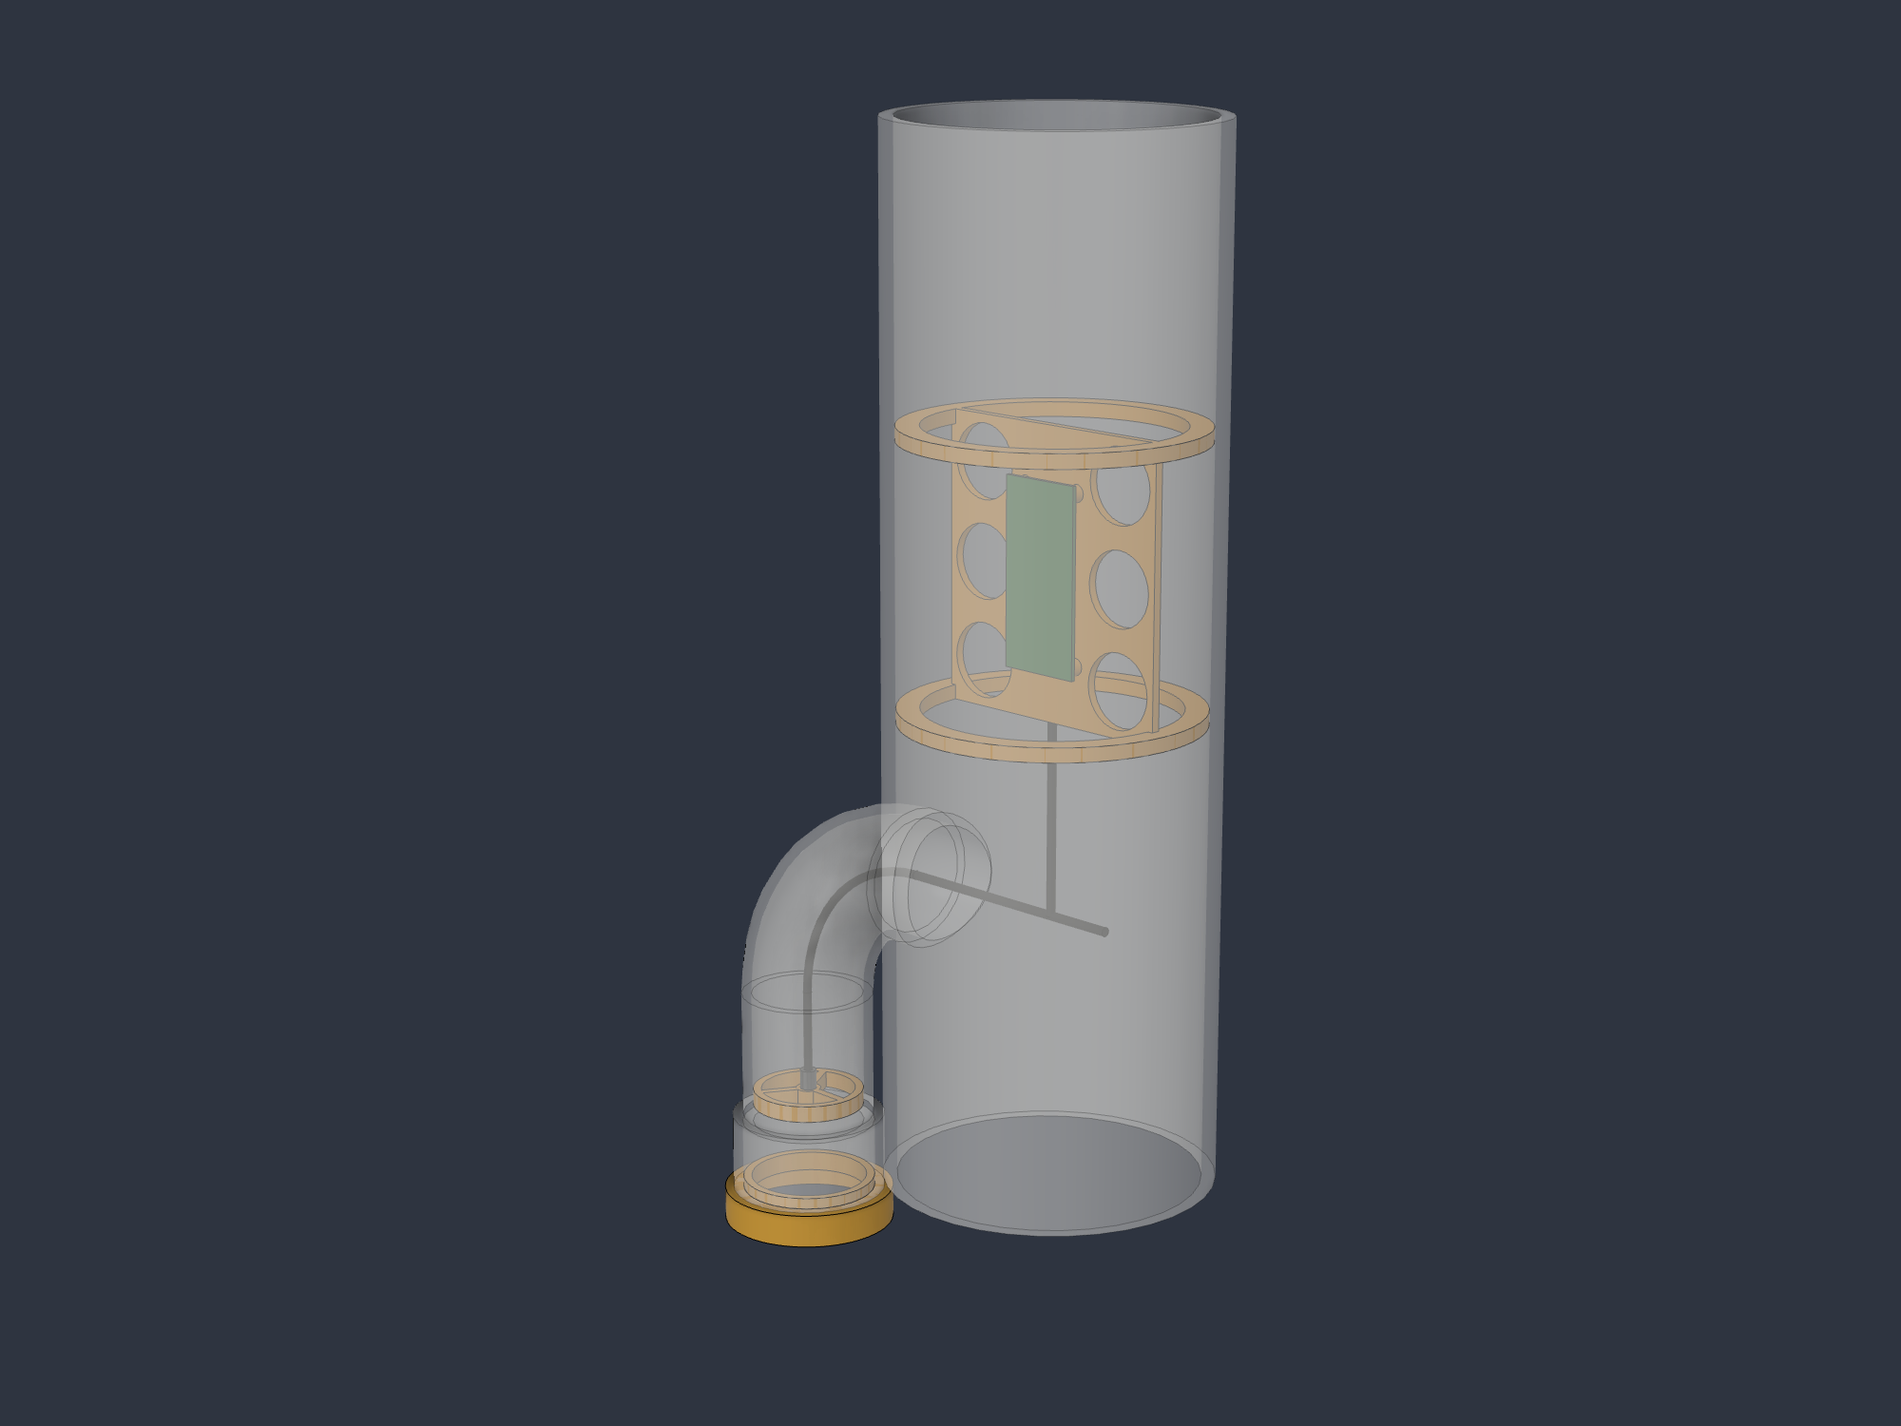
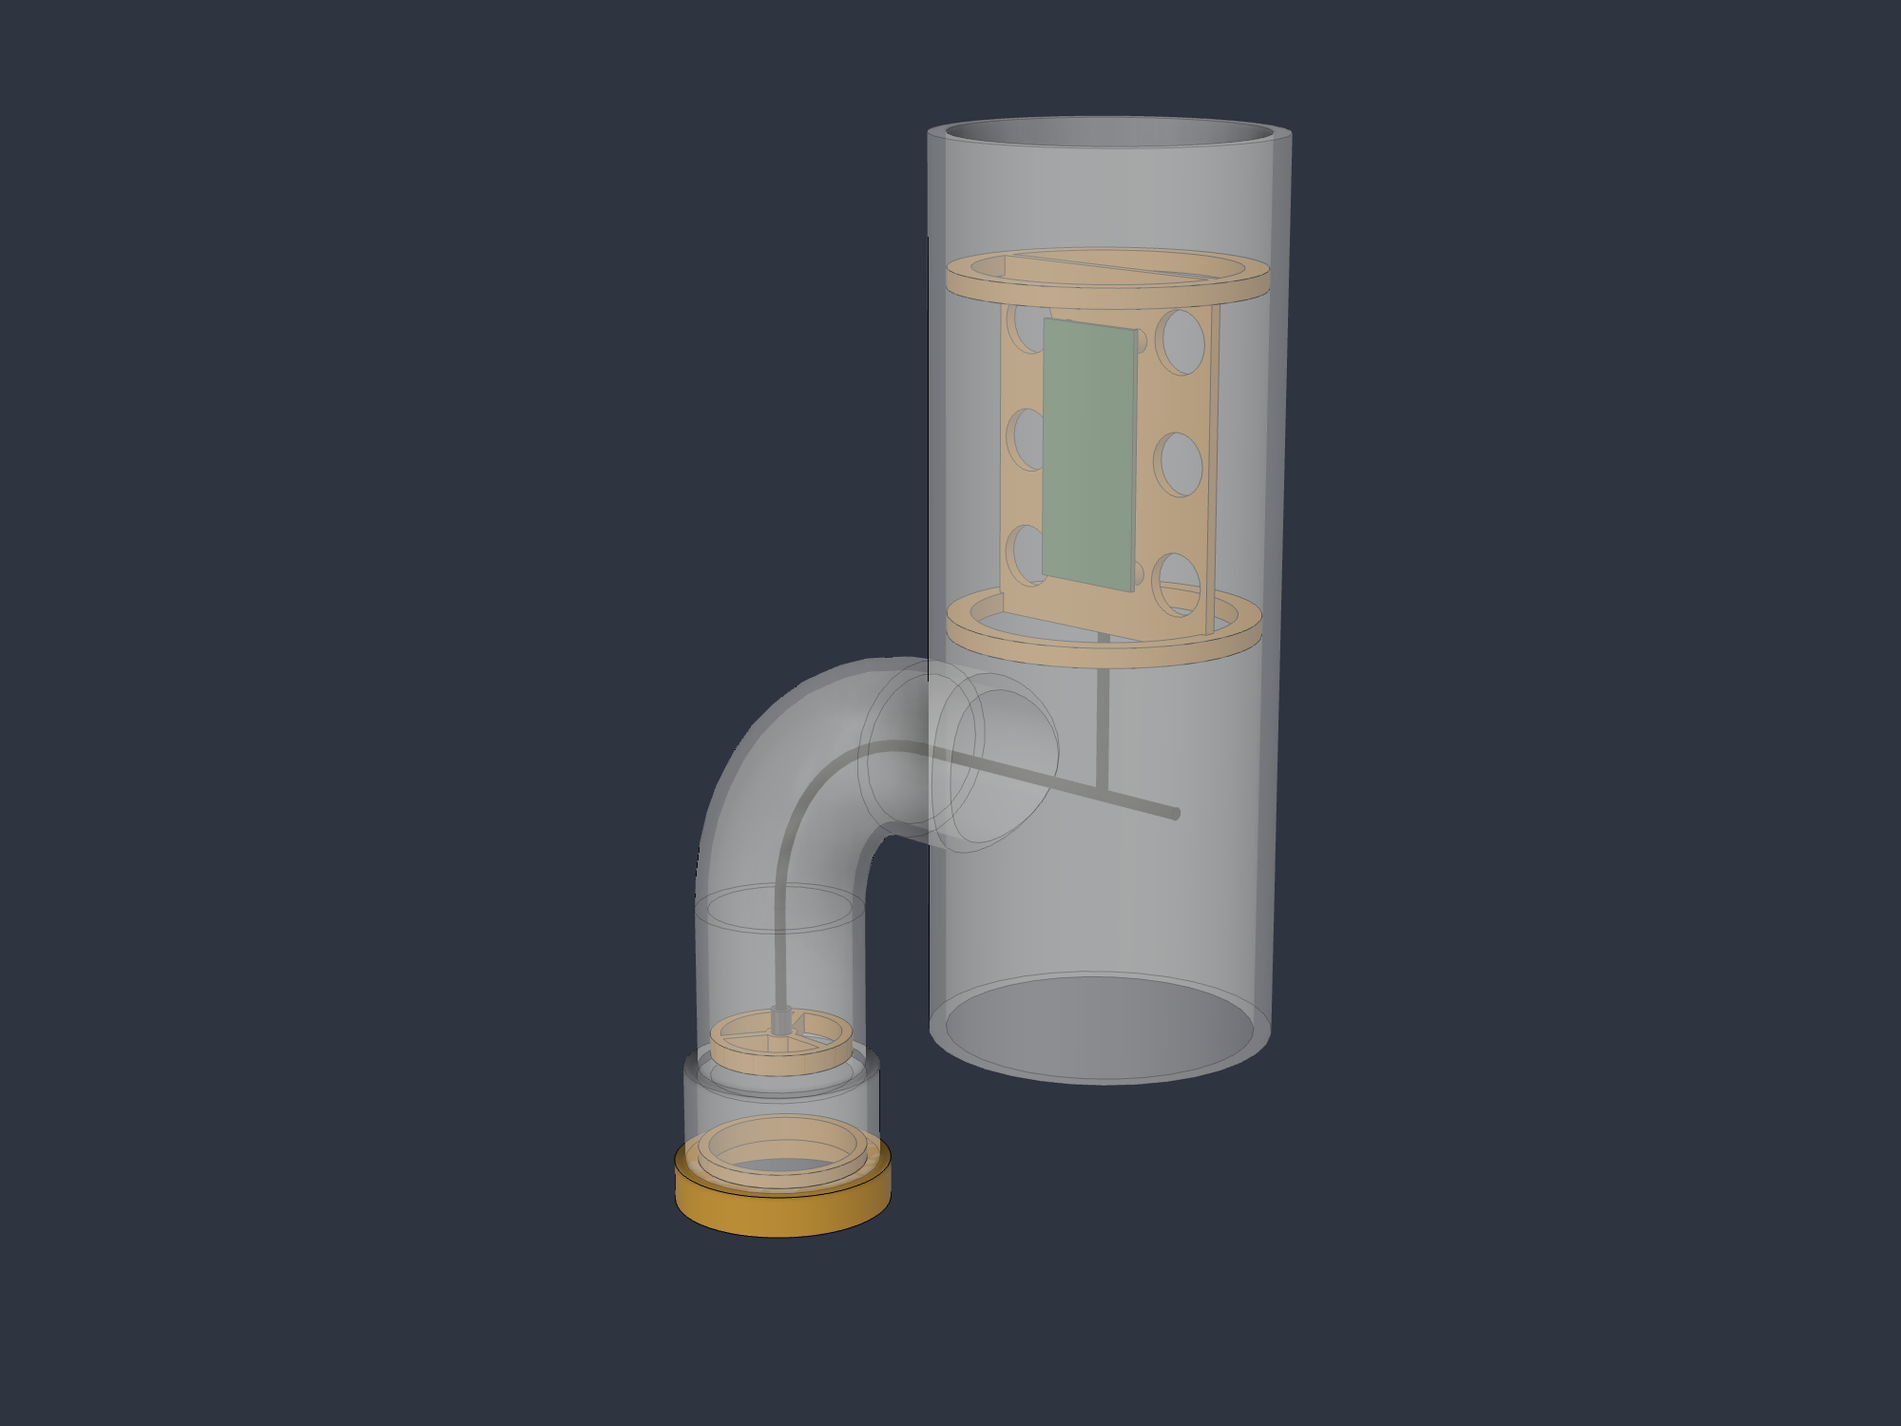
hardware: downsize the tee to 3in and shorten the run
Sized from the board rather than by feel. A Pi Zero 2 W on edge with a
5.5 mm standoff puts its far corner sqrt(15^2 + 6.9^2) = 16.5 mm off the
axis, so ~38 mm of bore would do; 4" was overkill. 3" leaves room for
the sled, the cable and a PoE splitter.

Not 2": the Oatey mushroom cap is sold for 3" or 4" but not 2", and at
2" the sled's spine wings shrink to ~7 mm, too narrow to lighten.

The run also came down from 360 to 230 mm, set by what has to fit rather
than by round numbers - 38 mm of plenum below the branch, 18.7 mm
between branch and sled, 33 mm above the sled for the cap to slip over.

Tee 685932 -> 373558 mm3, sled 42570 -> 29901 mm3, overall height
400 -> 300 mm and OD 4.5 -> 3.5 inches.

Replaces the sanity figures in build_tee_body's docstring, which were
all from the 4" version, with the overshoot rule they were illustrating.
Stale asserted numbers are worse than none.

Claude-Session: https://claude.ai/code/session_01KBwUcRoQgC2qoPoadKhhvs

Changed region(s): [[0.341, 0.0613, 0.682, 0.8893]]

diff --git a/hardware/mic-housing/fusion_build.py b/hardware/mic-housing/fusion_build.py
@@ -518,19 +518,28 @@ def build_cable(root):
 
 
 TEE = {
-    # 4" DWV run that houses the Pi
-    "run_od": 114.3,
-    "run_wall": 4.83,
-    "run_bot": 40.0,     # open lower end; the inlet cap slips on here
-    "run_top": 400.0,    # open upper end; the outlet cap slips on here
+    # 3" DWV run that houses the Pi. Sized from the board, not by feel: a Pi
+    # Zero 2 W on edge with a 5.5 mm standoff puts its far corner
+    # sqrt(15^2 + 6.9^2) = 16.5 mm off the axis, so ~38 mm of bore would do.
+    # 3" (79.76) leaves room for the sled, the cable and a PoE splitter.
+    #
+    # Not 2": the Oatey mushroom cap is sold for 3" or 4" but not 2", and at 2"
+    # the sled's spine wings shrink to ~7 mm, too narrow to lighten.
+    "run_od": 88.9,
+    "run_wall": 4.57,
+    "run_bot": 70.0,     # open lower end; the inlet cap slips on here
+    "run_top": 300.0,    # open upper end; the outlet cap slips on here
 }
 
 
 def build_tee_body(root):
-    """The 4x4x1-1/2 reducing tee: vertical run for the Pi, branch for the mic.
+    """The 3x3x1-1/2 reducing tee: vertical run for the Pi, branch for the mic.
 
-    VERIFIED. 681669 mm3, 11 faces, one body,
-    bbox x[-24.1, 179.3] y[0, 400] z[+-57.1].
+    VERIFIED. 373558 mm3, one body,
+    bbox x[-28.08, 166.6] y[0, 300] z[+-44.45].
+
+    The two bbox minima are the checks that matter: -28.08 is exactly the 56.16
+    hub radius, and y=0 means the mouth survived the socket cut.
 
     Built by boolean rather than by shelling. `build_elbow` can shell because a
     plain sweep has exactly two planar faces; a tee has none at the junction, and
@@ -542,17 +551,14 @@ def build_tee_body(root):
     the mic housing carries over unchanged; it just arrives integral to the tee
     instead of as a separate fitting. Mouth still sits at the origin facing -Y.
 
-    Sanity figures, all confirmed against the model:
-      outer branch  420300 mm3  (identical to the standalone elbow sweep)
-      outer run    3693898 mm3  (= pi * 57.15^2 * 360)
-      union        4012025 mm3
-      bore union   3416372 mm3
-    The subtraction leaves 681669 rather than 595653 because the bore cylinder
-    deliberately overshoots the run by 5 mm at each end to guarantee a clean cut;
-    that overshoot (2 * 5 * pi * 52.35^2 = 86016 mm3) lies outside the solid.
+    The bore cylinder deliberately overshoots the run by 5 mm at each end so the
+    cut never has to resolve coincident faces. That overshoot lies outside the
+    solid, so the finished volume is larger than (outer union - bore union) by
+    exactly 2 * 5 * pi/4 * run_id^2 - worth knowing before treating the
+    difference as an error.
     """
     p, t = PARAMS, TEE
-    comp = new_component(root, 'PVC 4x4x1-1/2 reducing tee')
+    comp = new_component(root, 'PVC 3x3x1-1/2 reducing tee')
     x_run = p["bend_radius"] + p["leg_cable"]
 
     outer_branch = _sweep_branch(comp, p["pipe_od"])
@@ -664,16 +670,16 @@ SLED = {
     "pi_hole_dx": 58.0,     # mounting hole pitch, long axis
     "pi_hole_dy": 23.0,     # mounting hole pitch, short axis
     # Printed sled
-    "sled_bot": 200.0,      # y at the lower rib
-    "sled_len": 100.0,
+    "sled_bot": 175.0,      # y at the lower rib
+    "sled_len": 92.0,
     "rib_thick": 5.0,
-    "rib_rim": 8.0,
+    "rib_rim": 6.0,
     "sled_clear": 0.4,      # press fit against the run bore
     "spine_thick": 3.0,
-    "spine_half": 46.0,     # overlaps the ribs' inner radius so the JOIN welds
-    "lighten_dia": 26.0,
-    "lighten_x": 30.5,      # outboard of the 30 mm board and its standoffs
-    "lighten_pitch": 34.0,
+    "spine_half": 35.0,     # overlaps the ribs' inner radius so the JOIN welds
+    "lighten_dia": 16.0,
+    "lighten_x": 25.0,      # outboard of the 30 mm board and its standoffs
+    "lighten_pitch": 30.0,
     "standoff": 4.0,
     "standoff_dia": 6.0,
 }
@@ -736,7 +742,7 @@ def build_pi_sled(root):
     y_mid = (y_lo + y_hi) / 2.0
 
     # Lighten the wings. The spine is edge-on to the airflow so it blocks almost
-    # nothing (92 x 3 mm of footprint against an 8601 mm2 bore), but solid it is
+    # nothing (70 x 3 mm of footprint against a 4996 mm2 bore), but solid it is
     # over half the sled's filament. The cutouts sit outboard of the board and
     # its standoffs, and let the two halves of the tube exchange air.
     lsk = comp.sketches.add(comp.xYConstructionPlane)
@@ -984,19 +990,19 @@ def render_all(app, design):
     set_visible(design, ["windjammer"])
 
     written.append(shot(app, "tee-assembly.png",
-                        eye=(700, 430, 620), target=(77, 200, 0)))
+                        eye=(560, 330, 500), target=(66, 150, 0)))
 
     # Same camera, PVC dropped to a quarter. Everything that matters is inside
     # the pipe; opaque, the image is just two tubes.
     set_opacity(design, "PVC", 0.25)
     written.append(shot(app, "tee-cutaway.png",
-                        eye=(700, 430, 620), target=(77, 200, 0)))
+                        eye=(560, 330, 500), target=(66, 150, 0)))
 
     # The Pi bay. Three-quarter rather than square-on: dead ahead renders the
     # board and spine as flat rectangles with no depth cue at all.
     written.append(shot(app, "tee-pi-bay.png",
-                        eye=(x_run + 270, 345, 265), target=(x_run, 250, 0),
-                        extents=120.0))
+                        eye=(x_run + 215, 300, 210), target=(x_run, 221, 0),
+                        extents=100.0))
     set_opacity(design, "PVC", 1.0)
 
     # Mic internals. Hiding the tee and the retainer clears the sight line; the
@@ -1009,7 +1015,7 @@ def render_all(app, design):
     set_visible(design, ["PVC", "lav capsule", "windjammer", "cable",
                          "vent carrier", "retainer", "capsule holder"])
     written.append(shot(app, "tee-printed-sled.png",
-                        eye=(x_run + 240, 350, 260), target=(x_run, 250, 0)))
+                        eye=(x_run + 190, 300, 205), target=(x_run, 221, 0)))
 
     set_visible(design, ["PVC", "lav capsule", "windjammer", "cable", "Pi "])
     written.append(shot(app, "tee-printed-mic.png",

diff --git a/hardware/mic-housing/parts/06_tee.py b/hardware/mic-housing/parts/06_tee.py
@@ -1,17 +1,26 @@
 TEE = {
-    # 4" DWV run that houses the Pi
-    "run_od": 114.3,
-    "run_wall": 4.83,
-    "run_bot": 40.0,     # open lower end; the inlet cap slips on here
-    "run_top": 400.0,    # open upper end; the outlet cap slips on here
+    # 3" DWV run that houses the Pi. Sized from the board, not by feel: a Pi
+    # Zero 2 W on edge with a 5.5 mm standoff puts its far corner
+    # sqrt(15^2 + 6.9^2) = 16.5 mm off the axis, so ~38 mm of bore would do.
+    # 3" (79.76) leaves room for the sled, the cable and a PoE splitter.
+    #
+    # Not 2": the Oatey mushroom cap is sold for 3" or 4" but not 2", and at 2"
+    # the sled's spine wings shrink to ~7 mm, too narrow to lighten.
+    "run_od": 88.9,
+    "run_wall": 4.57,
+    "run_bot": 70.0,     # open lower end; the inlet cap slips on here
+    "run_top": 300.0,    # open upper end; the outlet cap slips on here
 }
 
 
 def build_tee_body(root):
-    """The 4x4x1-1/2 reducing tee: vertical run for the Pi, branch for the mic.
+    """The 3x3x1-1/2 reducing tee: vertical run for the Pi, branch for the mic.
 
-    VERIFIED. 681669 mm3, 11 faces, one body,
-    bbox x[-24.1, 179.3] y[0, 400] z[+-57.1].
+    VERIFIED. 373558 mm3, one body,
+    bbox x[-28.08, 166.6] y[0, 300] z[+-44.45].
+
+    The two bbox minima are the checks that matter: -28.08 is exactly the 56.16
+    hub radius, and y=0 means the mouth survived the socket cut.
 
     Built by boolean rather than by shelling. `build_elbow` can shell because a
     plain sweep has exactly two planar faces; a tee has none at the junction, and
@@ -23,17 +32,14 @@ def build_tee_body(root):
     the mic housing carries over unchanged; it just arrives integral to the tee
     instead of as a separate fitting. Mouth still sits at the origin facing -Y.
 
-    Sanity figures, all confirmed against the model:
-      outer branch  420300 mm3  (identical to the standalone elbow sweep)
-      outer run    3693898 mm3  (= pi * 57.15^2 * 360)
-      union        4012025 mm3
-      bore union   3416372 mm3
-    The subtraction leaves 681669 rather than 595653 because the bore cylinder
-    deliberately overshoots the run by 5 mm at each end to guarantee a clean cut;
-    that overshoot (2 * 5 * pi * 52.35^2 = 86016 mm3) lies outside the solid.
+    The bore cylinder deliberately overshoots the run by 5 mm at each end so the
+    cut never has to resolve coincident faces. That overshoot lies outside the
+    solid, so the finished volume is larger than (outer union - bore union) by
+    exactly 2 * 5 * pi/4 * run_id^2 - worth knowing before treating the
+    difference as an error.
     """
     p, t = PARAMS, TEE
-    comp = new_component(root, 'PVC 4x4x1-1/2 reducing tee')
+    comp = new_component(root, 'PVC 3x3x1-1/2 reducing tee')
     x_run = p["bend_radius"] + p["leg_cable"]
 
     outer_branch = _sweep_branch(comp, p["pipe_od"])

diff --git a/hardware/mic-housing/parts/98_render.py b/hardware/mic-housing/parts/98_render.py
@@ -162,19 +162,19 @@ def render_all(app, design):
     set_visible(design, ["windjammer"])
 
     written.append(shot(app, "tee-assembly.png",
-                        eye=(700, 430, 620), target=(77, 200, 0)))
+                        eye=(560, 330, 500), target=(66, 150, 0)))
 
     # Same camera, PVC dropped to a quarter. Everything that matters is inside
     # the pipe; opaque, the image is just two tubes.
     set_opacity(design, "PVC", 0.25)
     written.append(shot(app, "tee-cutaway.png",
-                        eye=(700, 430, 620), target=(77, 200, 0)))
+                        eye=(560, 330, 500), target=(66, 150, 0)))
 
     # The Pi bay. Three-quarter rather than square-on: dead ahead renders the
     # board and spine as flat rectangles with no depth cue at all.
     written.append(shot(app, "tee-pi-bay.png",
-                        eye=(x_run + 270, 345, 265), target=(x_run, 250, 0),
-                        extents=120.0))
+                        eye=(x_run + 215, 300, 210), target=(x_run, 221, 0),
+                        extents=100.0))
     set_opacity(design, "PVC", 1.0)
 
     # Mic internals. Hiding the tee and the retainer clears the sight line; the
@@ -187,7 +187,7 @@ def render_all(app, design):
     set_visible(design, ["PVC", "lav capsule", "windjammer", "cable",
                          "vent carrier", "retainer", "capsule holder"])
     written.append(shot(app, "tee-printed-sled.png",
-                        eye=(x_run + 240, 350, 260), target=(x_run, 250, 0)))
+                        eye=(x_run + 190, 300, 205), target=(x_run, 221, 0)))
 
     set_visible(design, ["PVC", "lav capsule", "windjammer", "cable", "Pi "])
     written.append(shot(app, "tee-printed-mic.png",

diff --git a/hardware/mic-housing/parts/07_pi_sled.py b/hardware/mic-housing/parts/07_pi_sled.py
@@ -7,16 +7,16 @@ SLED = {
     "pi_hole_dx": 58.0,     # mounting hole pitch, long axis
     "pi_hole_dy": 23.0,     # mounting hole pitch, short axis
     # Printed sled
-    "sled_bot": 200.0,      # y at the lower rib
-    "sled_len": 100.0,
+    "sled_bot": 175.0,      # y at the lower rib
+    "sled_len": 92.0,
     "rib_thick": 5.0,
-    "rib_rim": 8.0,
+    "rib_rim": 6.0,
     "sled_clear": 0.4,      # press fit against the run bore
     "spine_thick": 3.0,
-    "spine_half": 46.0,     # overlaps the ribs' inner radius so the JOIN welds
-    "lighten_dia": 26.0,
-    "lighten_x": 30.5,      # outboard of the 30 mm board and its standoffs
-    "lighten_pitch": 34.0,
+    "spine_half": 35.0,     # overlaps the ribs' inner radius so the JOIN welds
+    "lighten_dia": 16.0,
+    "lighten_x": 25.0,      # outboard of the 30 mm board and its standoffs
+    "lighten_pitch": 30.0,
     "standoff": 4.0,
     "standoff_dia": 6.0,
 }
@@ -79,7 +79,7 @@ def build_pi_sled(root):
     y_mid = (y_lo + y_hi) / 2.0
 
     # Lighten the wings. The spine is edge-on to the airflow so it blocks almost
-    # nothing (92 x 3 mm of footprint against an 8601 mm2 bore), but solid it is
+    # nothing (70 x 3 mm of footprint against a 4996 mm2 bore), but solid it is
     # over half the sled's filament. The cutouts sit outboard of the board and
     # its standoffs, and let the two halves of the tube exchange air.
     lsk = comp.sketches.add(comp.xYConstructionPlane)

diff --git a/hardware/mic-housing/PROGRESS.md b/hardware/mic-housing/PROGRESS.md
@@ -35,8 +35,11 @@ it is safe to re-run. It does not save the document.
 
 ## Design decision
 
-The build is the **4x4x1-1/2 reducing tee**, not the standalone elbow: Pi in the
-vertical 4" run, mic in the 1-1/2" branch. `01_elbow.py` is kept because the
+The build is the **3x3x1-1/2 reducing tee**, not the standalone elbow: Pi in the
+vertical 3" run, mic in the 1-1/2" branch. Sized from the board rather than
+by feel: a Pi Zero 2 W on edge with a 5.5 mm standoff needs only ~38 mm of
+bore, so 4" was overkill. Not 2" either - the Oatey cap is sold for 3" or 4"
+but not 2", and at 2" the sled's spine wings are too narrow to lighten. `01_elbow.py` is kept because the
 mic-housing geometry is identical either way, but `06_tee.py` is what the
 assembly uses - the branch arrives integral to the tee rather than as a separate
 fitting. Parts 2-5 are unaffected; they live in the branch bore regardless.
@@ -45,8 +48,8 @@ fitting. Parts 2-5 are unaffected; they live in the branch bore regardless.
 
 | Part | File | Evidence |
 |---|---|---|
-| PVC 4x4x1-1/2 reducing tee | `06_tee.py` | 685932 mm3, one body, bbox x[-28.08, 179.3] y[0, 400] z[+-57.15]. The x and y minima are the checks that matter: -28.08 is exactly the 56.16 hub radius, and y=0 means the mouth is still there. |
-| Pi sled | `07_pi_sled.py` | One welded body, 42570 mm3, bbox x[70.03, 174.27] y[200, 300] z[+-52.12]. Two ribs at 104.24 press-fit the 104.64 bore; six 26 mm cutouts removed 9557 mm3, matching 6 x pi/4 x 26^2 x 3 exactly. |
+| PVC 3x3x1-1/2 reducing tee | `06_tee.py` | 373558 mm3, one body, bbox x[-28.08, 166.6] y[0, 300] z[+-44.45]. The x and y minima are the checks that matter: -28.08 is exactly the 56.16 hub radius, and y=0 means the mouth survived the socket cut. |
+| Pi sled | `07_pi_sled.py` | One welded body, 29901 mm3, bbox x[82.47, 161.83] y[175, 267] z[+-39.68]. Two ribs at 79.36 press-fit the 79.76 bore; six 16 mm lightening cutouts. |
 | Pi board | `07_pi_sled.py` | Reference. 2730 mm3 = 65 x 30 x 1.4 exactly, standing off the spine at z 5.5..6.9. |
 | Cable riser | `07_pi_sled.py` | Reference. Runs the branch cable from where the sweep ends at the run axis (y=132.15) up to the lower rib (y=200). |
 | PVC 1-1/2" DWV 90 elbow | `01_elbow.py` | 126949 mm3, bbox x[-28.08, 122.15] y[0, 160.23] z[+-28.08]. Renders as a DWV 90 with a hub at each end, mouth facing -Y, cable leg +X. |

diff --git a/docs/outdoor-deployment.md b/docs/outdoor-deployment.md
@@ -236,13 +236,13 @@ The USB lavalier's cable is only about 6 ft, so if there is no indoor spot withi
 distance — a pole in the yard, a detached garage, a far corner — the Pi has to live at
 the mic. In that case put it in its **own** body, not in the mic's.
 
-![Section through a 4x4x1½ inch PVC reducing tee. The vertical 4 inch run holds a Pi on
+![Section through a 3x3x1½ inch PVC reducing tee. The vertical 3 inch run holds a Pi on
 a printed sled, vented at the top for warm air out and at the bottom for cool air in and
 condensate drainage. The 1½ inch branch turns down through a 90 degree elbow carrying the
 mic exactly as before, so the Pi never shares the mic
 bore.](img/mic-housing-tee-variant.svg)
 
-A **4×4×1½" reducing tee** gives one assembly with two acoustic domains. The Pi gets its
+A **3×3×1½" reducing tee** gives one assembly with two acoustic domains. The Pi gets its
 own body, and the mic bore stays clean. Sharing a single tube between the two is the
 tempting version and the wrong one: the Pi becomes a large reflector directly above the
 capsule, and it is rigidly coupled to the same plastic the capsule is mounted in.
@@ -251,8 +251,8 @@ Both caps are purchased, not printed:
 
 | Qty | Part | Approx | Notes |
 |-----|------|--------|-------|
-| 1 | Oatey mushroom vent cap, 4" | ~$10 | Top. Sheds rain, passes air. Check it ships with a screen. |
-| 1 | 4" PVC cap, drilled + screened | ~$5 | Bottom. **Never leave it solid** — see below. |
+| 1 | Oatey mushroom vent cap, 3" | ~$10 | Top. Sheds rain, passes air. Check it ships with a screen. |
+| 1 | 3" PVC cap, drilled + screened | ~$5 | Bottom. **Never leave it solid** — see below. |
 | 1 | Stainless mesh + hose clamp | ~$3 | Screening for both ends. |
 
 Don't substitute an NDS drain grate at the bottom. Those fit **sewer-and-drain** pipe at
